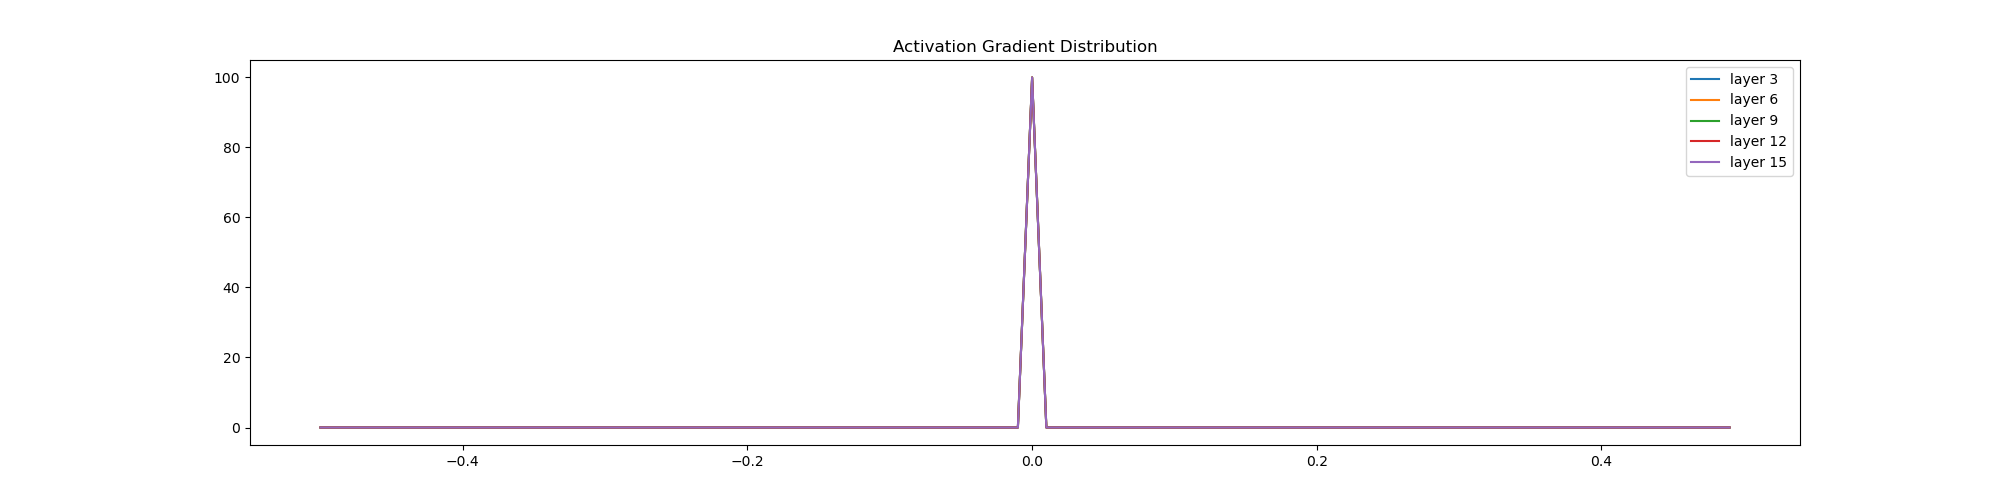
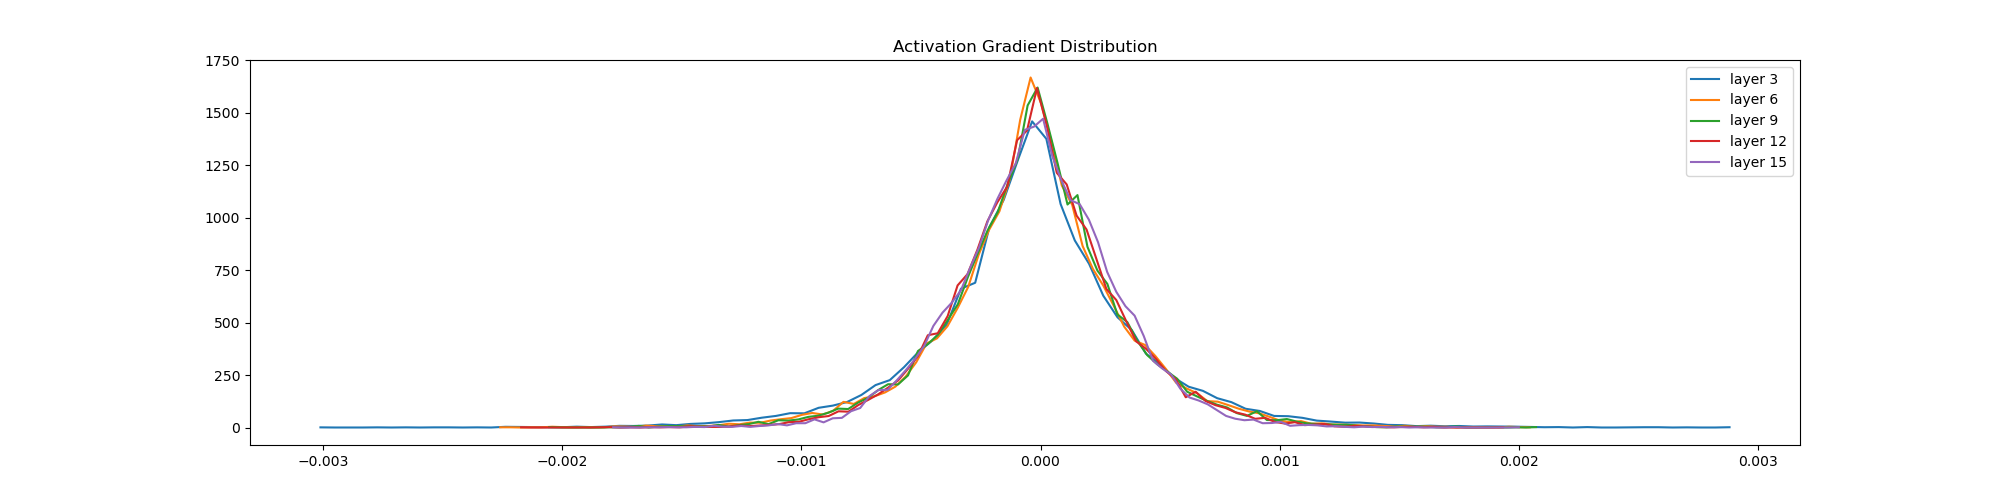
Fold batch norm
This commit complete exercise two which is to fold batch norm into the
previous Linear layer. This help to optimize for speed during inference
.

diff --git a/batch_norm.py b/batch_norm.py
@@ -1,20 +1,6 @@
 """
 This module shows the various ways normalization could be implemented
 in the previous MLP architecture.
-# TO DO: do the youtube exercises
-Exercises:
-E01: I did not get around to seeing what happens when you initialize all weights and biases to zero.
-Try this and train the neural net. You might think either that 1) the network trains just fine or 2) 
-the network doesn't train at all, but actually it is 3) the network trains but only partially, and 
-achieves a pretty bad final performance. Inspect the gradients and activations to figure out what is 
-happening and why the network is only partially training, and what part is being trained exactly.
-- E02: BatchNorm, unlike other normalization layers like LayerNorm/GroupNorm etc. has the big 
-advantage that after training, the batchnorm gamma/beta can be "folded into" the weights of the 
-preceeding Linear layers, effectively erasing the need to forward it at test time. Set up a small 
-3-layer MLP with batchnorms, train the network, then "fold" the batchnorm gamma/beta into the 
-preceeding Linear layer's W,b by creating a new W2, b2 and erasing the batch norm. Verify that this 
-gives the same forward pass during inference. i.e. we see that the batchnorm is there just for 
-stabilizing the training, and can be thrown out after training is done! pretty cool.
 # TO DO: Read the mentioned ML papers(Delving deep into rectifiers, rethinking batch norm, layer 
 norm group norm, instance norm)
 """
@@ -68,14 +54,14 @@ class Linear:
     """
 
     def __init__(self, in_features: int, out_features: int, bias: bool = True) -> None:
-        # self.weight = torch.normal(
-        #     0,
-        #     (1 / (in_features**0.5)),
-        #     (in_features, out_features),
-        #     generator=GENERATOR,
-        #     device=DEVICE,
-        # )
-        self.weight = torch.zeros((in_features,out_features),device=DEVICE)
+        self.weight = torch.normal(
+            0,
+            (1 / (in_features**0.5)),
+            (in_features, out_features),
+            generator=GENERATOR,
+            device=DEVICE,
+        )
+        # self.weight = torch.zeros((in_features,out_features),device=DEVICE)
         self.bias = torch.zeros(out_features, device=DEVICE) if bias else None
         self.output = None
 
@@ -103,8 +89,8 @@ class BatchNorm:
         self.eps = eps
         self.momentum = momentum
         self.training = True
-        # self.gamma = torch.ones(num_features, device=DEVICE)
-        self.gamma = torch.zeros(num_features, device=DEVICE)
+        self.gamma = torch.ones(num_features, device=DEVICE)
+        # self.gamma = torch.zeros(num_features, device=DEVICE)
         self.beta = torch.zeros(num_features, device=DEVICE)
         self.running_mean = torch.zeros(num_features, device=DEVICE)
         self.running_var = torch.ones(num_features, device=DEVICE)
@@ -316,22 +302,22 @@ labels = torch.tensor(labels, device=DEVICE)
 
 model = [
     Embedding(len(unique_characters), EMBEDDING_LENGTH),
-    Linear(EMBEDDING_LENGTH * BLOCK_SIZE, HIDDEN_LAYER),
+    Linear(EMBEDDING_LENGTH * BLOCK_SIZE, HIDDEN_LAYER, bias=False),
     BatchNorm(HIDDEN_LAYER),
     Tanh(),
-    Linear(HIDDEN_LAYER, HIDDEN_LAYER),
+    Linear(HIDDEN_LAYER, HIDDEN_LAYER, bias=False),
     BatchNorm(HIDDEN_LAYER),
     Tanh(),
-    Linear(HIDDEN_LAYER, HIDDEN_LAYER),
+    Linear(HIDDEN_LAYER, HIDDEN_LAYER, bias=False),
     BatchNorm(HIDDEN_LAYER),
     Tanh(),
-    Linear(HIDDEN_LAYER, HIDDEN_LAYER),
+    Linear(HIDDEN_LAYER, HIDDEN_LAYER, bias=False),
     BatchNorm(HIDDEN_LAYER),
     Tanh(),
-    Linear(HIDDEN_LAYER, HIDDEN_LAYER),
+    Linear(HIDDEN_LAYER, HIDDEN_LAYER, bias=False),
     BatchNorm(HIDDEN_LAYER),
     Tanh(),
-    Linear(HIDDEN_LAYER, len(unique_characters)),
+    Linear(HIDDEN_LAYER, len(unique_characters), bias=False),
     BatchNorm(len(unique_characters)),
 ]
 with torch.no_grad():
@@ -394,45 +380,59 @@ for index, parameter in enumerate(parameters):
         sns.lineplot(
             x=x[:-1].detach(),
             y=y.detach(),
-            label=f"Weight {index} {tuple(parameter.shape)}"
+            label=f"Weight {index} {tuple(parameter.shape)}",
         )
 plt.title("Weight Gradient Distribution")
 plt.savefig("images/weights_gradient_distributions")
 
+plt.figure(figsize=(20, 5))
+for index, parameter in enumerate(parameters):
+    param_update_ratios = [update_ratio[j][index] for j in range(len(update_ratio))]
+    if parameter.ndim == 2:
+        sns.lineplot(
+            x=range(len(param_update_ratios)),
+            y=param_update_ratios,
+            label=f"param {index}",
+        )
+plt.axhline(y=-3, color="black", linestyle="-", label="Standard")
+plt.title("Update ratio over time.")
+plt.savefig("images/update_ratio_over_time")
+
+# print("\n")
 # plt.figure(figsize=(20, 5))
 # for index, parameter in enumerate(parameters):
 #     param_update_ratios  = [update_ratio[j][index] for j in range(len(update_ratio))]
-#     if parameter.ndim == 2:
+#     if not any(math.isnan(x) for x in param_update_ratios):
+#         print(f"Parameter at index {index} with shape ({parameter.shape}) trained.")
 #         sns.lineplot(
 #             x = range(len(param_update_ratios)),
 #             y = param_update_ratios,
 #             label=f"param {index}"
 #         )
+#     else:
+#         print(f"Parameter at index {index} with shape ({parameter.shape}) did not train.")
 # plt.axhline(y=-3, color='black', linestyle='-', label="Standard")
 # plt.title("Update ratio over time.")
 # plt.savefig("images/update_ratio_over_time")
 
-print("\n")
-plt.figure(figsize=(20, 5))
-for index, parameter in enumerate(parameters):
-    param_update_ratios  = [update_ratio[j][index] for j in range(len(update_ratio))]
-    if not any(math.isnan(x) for x in param_update_ratios):
-        print(f"Parameter at index {index} with shape ({parameter.shape}) trained.")
-        sns.lineplot(
-            x = range(len(param_update_ratios)),
-            y = param_update_ratios,
-            label=f"param {index}"
+for index, layer in enumerate(model):
+    if isinstance(layer, Linear):
+        layer.weight = (model[index + 1].gamma * layer.weight) / torch.sqrt(
+            model[index + 1].running_var + model[index + 1].eps
         )
-    else:
-        print(f"Parameter at index {index} with shape ({parameter.shape}) did not train.")
-plt.axhline(y=-3, color='black', linestyle='-', label="Standard")
-plt.title("Update ratio over time.")
-plt.savefig("images/update_ratio_over_time")
+        layer.bias = model[index + 1].beta - (
+            model[index + 1].gamma * model[index + 1].running_mean
+        ) / torch.sqrt(model[index + 1].running_var + model[index + 1].eps)
+
+model = [layer for layer in model if not isinstance(layer, BatchNorm)]
+
+print("\nLayers in our model currently.")
+print([f"{layer.__class__.__name__}" for layer in model])
 
 with torch.no_grad():
-    for layer in model:
-        if isinstance(layer, BatchNorm):
-            layer.eval()
+    # for layer in model:
+    #     if isinstance(layer, BatchNorm):
+    #         layer.eval()
 
     val_x, val_y = validation_set[0], validation_set[1]
     for layer in model:
